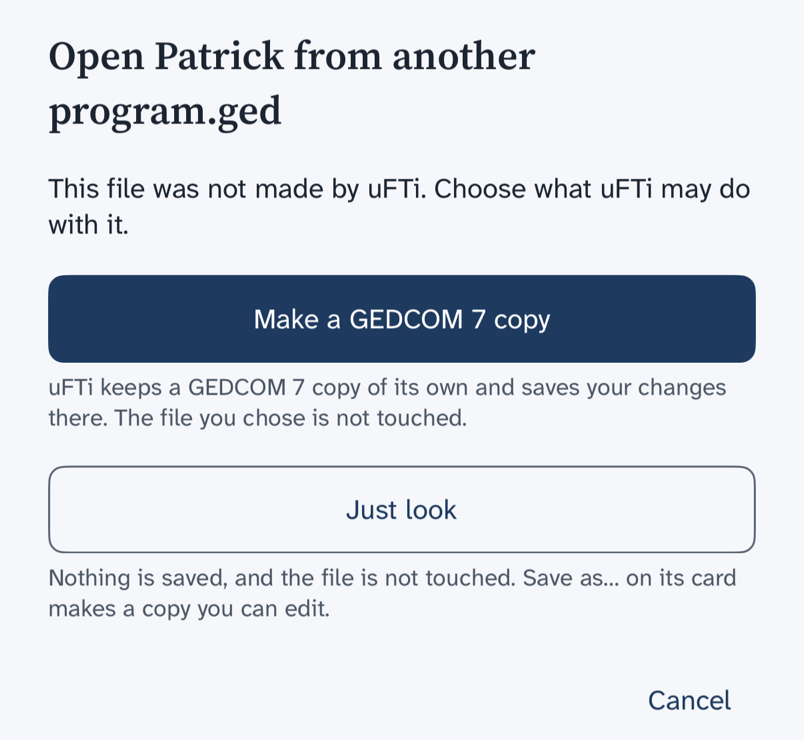
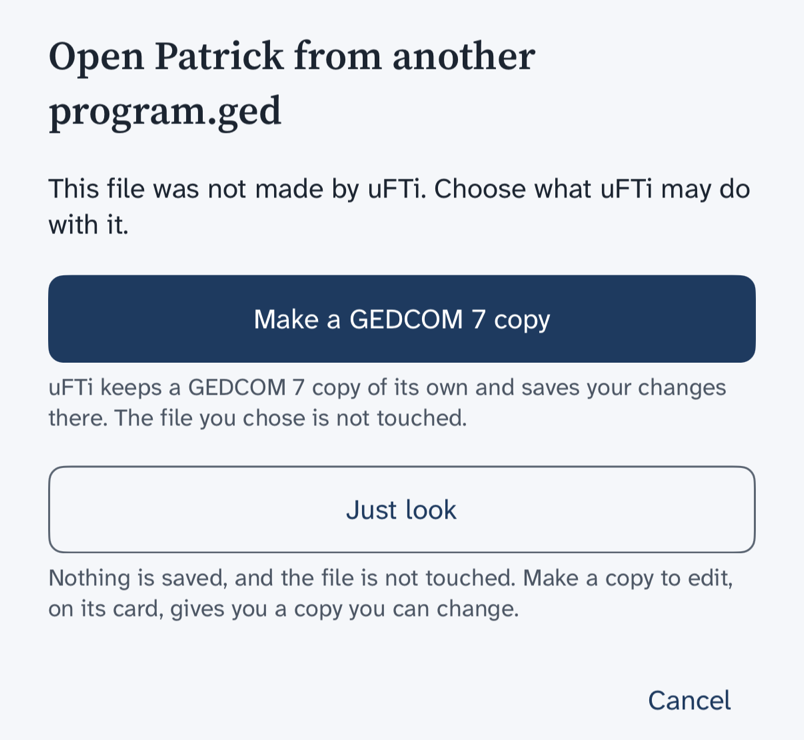
Walk the fixed Apple faults again and take out the pages' work-rounds (#199)
* Walk the fixed Apple faults again and take out the pages' work-rounds

The iPhone, iPad and Mac were walked again on 17 November on a newer
build from the app's development line. The Photos buttons lose their
work-rounds for the folder and the Mac's strip; Open a family tree file
describes Just looking, Make a copy to edit and the (2) on a second
card of the same name; Keep it safe says a message gives where the copy
went; Remove a tree offers the sample again on the iPhone; Find help
and the version names the two new buttons on About. The iPhone and
iPad pictures of the Remove box and of the page for another program's
file were taken again. The walk reports gain a section each.

Refs #197

* Note that the chain fault was sent to the app team

Refs #197

* Note that the Just look controls and About's camera line were sent to the app team

Refs #197

---------

Changed region(s): [[0.0622, 0.8081, 0.653, 0.8392], [0.653, 0.7459, 0.9328, 0.8081]]

diff --git a/authoring/walks/alpha-2-iphone.md b/authoring/walks/alpha-2-iphone.md
@@ -86,6 +86,29 @@ The pages were written from this report (DEC-238). The iPhone now shares the And
 ## 5. Next
 
 - Walk *Use an existing note* on the iPhone. Taking a photo needs a device with a camera.
-- When row 34 is mended, walk the folder button again and take away the page's line about looking for the picture.
+- When row 40 is mended, walk the chain button again after adding a picture from the folder.
 - On 12 November, at the maintainer's request, the faults (rows 21, 22, 24, 26, 27 and 28), row 30, the New workspace box and the sample's missing pen name were sent to the app team, with the Mac's and the iPad's.
 - On 14 November, at the maintainer's request, rows 34 and 35 were sent to the app team as two faults, and the empty frame in row 36 as a third.
+- On 17 November, at the maintainer's request, row 40 was sent to the app team as a fault, with the iPad's row 27.
+- On 17 November, at the maintainer's request, About's camera line (row 46) was sent to the app team.
+
+## 6. Walked again (17 November)
+
+The app team mended most of the faults above. On 17 November the mended places were walked again on a newer build from the app's development line, a Release build with the DevFlow agent (as DEC-221 allowed on Windows), from a fresh install, in Oxford and slate, Light.
+
+| # | Where | What a reader sees now | Then |
+|---|---|---|---|
+| 37 | The camera with no camera (row 35) | A box says "The camera is not available on this device." with **OK**. There is no question about the camera, and the app stays open. | Mended |
+| 38 | A picture from the folder (row 34) | After **OK** in **Describe this image**, the picture shows under the buttons at once, "Saved" shows for a moment, and the fourth button appears. | Mended |
+| 39 | The chain's pictures (row 36) | All three of the sample's pictures show, the museum's too. | Mended |
+| 40 | The chain, once the sample holds a picture from the folder | The app closed, twice. The other way round, the chain first and then the folder, the folder said "The picture could not be added. Please try again." The two kinds of picture are kept in folders whose names differ only by a capital letter, which this simulator's disk does not tell apart. A reader's iPhone may not see this; a Mac may. | A fault |
+| 41 | **Save as…** (row 22) | "Saved a copy as Brontë family of Haworth.gdz in On My iPhone." at the foot of the screen, gone after a few seconds. | Mended |
+| 42 | Opening the saved copy (rows 22 and 24) | The box names it "Brontë family of Haworth (2)" and says "Pictures linked on the web: 3", with nothing about family tree files. The card shows (2), and **Show details** gives "Made by uFTi 0.2.0", the file and "Saved 17 November 2026". | Mended |
+| 43 | **Just look** | Under **Just look** the page now says "Nothing is saved, and the file is not touched. Make a copy to edit, on its card, gives you a copy you can change." Home says "Open just to look at: nothing in this tree can be changed. To change it, use Make a copy to edit on its card under Workspaces.", and **+** is gone. The card is marked **Just looking** and has **Make a copy to edit**, which opens a copy that can be changed at once. The file chosen kept its date. | New |
+| 44 | The path and the New workspace box (rows 26 and 21) | On **More** the path ends in **More**. The **New workspace** box has "My family tree" selected, so typing replaces it. | Mended |
+| 45 | Removing the only tree | The **Remove workspace** box now names the file. Afterwards **Home** and **Workspaces** offer **Open the sample tree**, which opens the sample again. | New |
+| 46 | **About uFTi** | Two new buttons, **Privacy policy** and **Software components and licences**; they were not chosen. About still says "Camera: Available" on a simulator with no camera. | New; the camera line is for the app team |
+
+**Not walked again.** Leaving a form by the lit tab (row 27) and the chip after a delete (row 28). The app team reports both mended; walk them at the next pass.
+
+**The pages.** *The Photos buttons* loses its line about looking for the picture; the picture now shows under the buttons on every device. *Open a family tree file* describes **Just looking** and **Make a copy to edit**, and the (2) on a second card of the same name. *Keep it safe* gives the message after **Save**. *Remove a tree* adds **Open the sample tree**, and *Find help and the version* the two new buttons. The pictures of the **Remove workspace** box and of the page for another program's file were taken again.

diff --git a/authoring/walks/alpha-2-mac.md b/authoring/walks/alpha-2-mac.md
@@ -77,9 +77,28 @@ The pages for the AppKit Mac, written before the walk, were removed: no manual u
 
 ## 5. Next
 
-- Check rows 23 and 24 on the iPhone and iPad: their *Open a family tree file* pages still say that **Save as…** on the card makes a copy you can edit.
-- Walk the camera on the Mac. It needs the maintainer's word, because answering its question changes the Mac's privacy settings. On the iPhone simulator, which has no camera, choosing **Allow** closed the app (the iPhone report, row 35); a Mac without a camera may do the same, so walk it on a Mac with one.
+- Take again the pictures of the **Remove workspace** box and of the page for another program's file, which has new words under **Just look**.
+- Walk the camera on the Mac. It needs the maintainer's word, because answering its question changes the Mac's privacy settings. On the iPhone simulator, which has no camera, the button now says "The camera is not available on this device." (the iPhone report, row 37); a Mac without a camera should do the same. Walk the camera on a Mac with one.
 - On 12 November, at the maintainer's request, rows 22 to 24 were sent to the app team: rows 22 and 23 as a fault, row 24 as a request.
 - On 12 November, at the maintainer's request, row 21 was sent to the app team as a fault, and row 20 was added to the iPad's report of the chain button closing the app.
 - Check the **Currer** search on the Android phone, in the sample tree that the app opens with. If it finds nothing there, the Android phone needs another example too, and a new picture.
 - On 12 November, at the maintainer's request, rows 5, 10, 12, 13 and 17, the path word "Submitter", the "Tap to manage sources" names and the sample's missing pen name were sent to the app team, with the iPhone's and the iPad's.
+- On 17 November, at the maintainer's request, row 25 was sent to the app team: every control that changes a tree should be hidden while a tree opened with **Just look** is in use, on every device.
+
+## 6. Walked again (17 November)
+
+On 17 November the mended places were walked again on a newer build from the app's development line, a Release build with the DevFlow agent, in the walk's own trees.
+
+| # | Where | What a reader sees now | Then |
+|---|---|---|---|
+| 25 | **Just look** (rows 22 to 24) | The card is marked **Just looking** and has **Make a copy to edit**, which opens a copy that can be changed at once. Home says "Open just to look at: nothing in this tree can be changed. To change it, use Make a copy to edit on its card under Workspaces.", and **+** is gone. A person's page has no **Edit** and no Photos buttons, but still offers **Add parents to**, **Add a new family** and the **Sources** chips. **Add a new family** opens **Add a record** and then a family form; only **Save** is refused, with "'uFTi walk look 551 (2)' is open just to look at, so nothing in it can be changed. Make a copy to edit it." | Mended, but the forms are still offered: a fault |
+| 26 | **Cancel** on a form (row 17) | **Cancel** asks first, with **Keep editing** and **Discard**. The case of row 17, after removing the tree in use, was not repeated. | Mended |
+| 27 | The picture on the page (row 21) | The strip is the height of the pictures, and **Edit** is just under it. **Link existing media** shows all three of the sample's pictures, the museum's too. | Mended |
+| 28 | The side list, and the tree maker's form | With a research note's form opened from **+**, **Home** stays lit. The tree maker's form from **+** is named **Add a name** on the sheet and **Name** on the path, and **More** stays lit. | Mended |
+| 29 | Lists after a save from **+** | A research note saved from **+** shows in **Research questions and notes** at once. | Mended |
+| 30 | Words | The **Sources** chips are read as "0 sources. Manage sources.". **About uFTi** has two new buttons, **Privacy policy** and **Software components and licences**; they were not chosen. | Mended; new |
+| 31 | Two trees of the same name | The second card shows (2). | Mended |
+
+**Not taken again.** The pictures of the **Remove workspace** box and of the page for another program's file: the Mac's screen locked before they were taken.
+
+**The pages.** *The Photos buttons* loses its line about the thin strip. *Open a family tree file* describes **Just looking**, **Make a copy to edit** and the (2) on a second card of the same name.

diff --git a/authoring/walks/alpha-2-ipad.md b/authoring/walks/alpha-2-ipad.md
@@ -67,8 +67,25 @@ The pages were written from this report (DEC-238). The tour is new for rows 1, 2
 
 ## 5. Next
 
+- When the iPhone report's row 40 is mended, walk the chain button again and take away the page's line about the app closing.
 - Check row 20.
 - Watch for the end of row 25 again: a copy added with **Add from file…** whose card is marked **Active** while another tree stays in use. Two tries on 14 November did not repeat it.
 
 On 12 November, at the maintainer's request, rows 14, 18, 19 and 21 to 24 were sent to the app team as five faults and one request, ahead of the one list that DEC-214 plans for the other legs.
 - The faults (rows 8 and 14) go to the app team once, with the other legs' (DEC-214).
+- On 17 November, at the maintainer's request, row 27 was sent to the app team as a fault, with the iPhone's row 40.
+
+## 6. Walked again (17 November)
+
+On 17 November the mended places were walked again on a newer build from the app's development line, a Release build with the DevFlow agent, from a fresh install, on its side, in Oxford and slate, Light.
+
+| # | Where | What a reader sees now | Then |
+|---|---|---|---|
+| 26 | The folder's first choice (rows 14 and 18) | Choosing a picture once opens **Describe this image**. After **OK** the picture shows under the buttons, "Saved" shows for a moment, and the fourth button appears. | Mended |
+| 27 | The chain button (row 19) | Once the sample held that picture, the chain button closed the app again, as on the iPhone (the iPhone report, row 40). | A fault, still |
+| 28 | **Save as…** (row 21) | The format box offers **Everything (.gdz, recommended)** and **Family tree only (.ged)**. With a file of that name already there, the Files screen asked to replace it; **Keep Both** saved a second. The message: "Saved a copy as Brontë family of Haworth 2.gdz in On My iPad.", gone after a few seconds. | Mended |
+| 29 | **Remove workspace**, and the page for another program's file | The box now names the file. Under **Just look** the page says "Nothing is saved, and the file is not touched. Make a copy to edit, on its card, gives you a copy you can change." | New words; pictures taken again |
+
+**Not walked again on the iPad.** Opening the saved copy (row 22), two trees of the same name (row 23) and the tree's sheet (row 8). Rows 22 and 23 were seen mended on the iPhone and the Mac.
+
+**The pages.** The lines that worked round rows 14 and 18 are gone from *The Photos buttons* and *Open a family tree file*: **Add from file…** opened the file at the first choice both times. Its line about the chain button closing the app stays, because of row 27.

diff --git a/authoring/terminology.md b/authoring/terminology.md
@@ -370,6 +370,11 @@ Read from the iPhone and iPad apps on 11 November 2026, in the Alpha-2 walk ([`c
 |---|---|---|---|
 | `ui-make-a-gedcom-7-copy` | Make a GEDCOM 7 copy | The choice, for a file another program made, that keeps a copy of its own in GEDCOM 7 and saves changes there. | none |
 | `ui-just-look` | Just look | The choice, for a file another program made, that opens it to look at and saves nothing. | none |
+| `ui-just-looking` | Just looking | The mark on the card of a tree opened with Just look. | none |
+| `ui-make-a-copy-to-edit` | Make a copy to edit | The button on a Just looking card that opens a copy you can change. | none |
+| `ui-open-the-sample-tree` | Open the sample tree | The button on an empty Home and Workspaces that opens the Brontë sample again. | none |
+| `ui-privacy-policy` | Privacy policy | The button on About uFTi for the privacy policy. | none |
+| `ui-software-components-and-licences` | Software components and licences | The button on About uFTi for the software that uFTi is built with. | none |
 
 ### 2.12 Mac Alpha-2 additions
 
